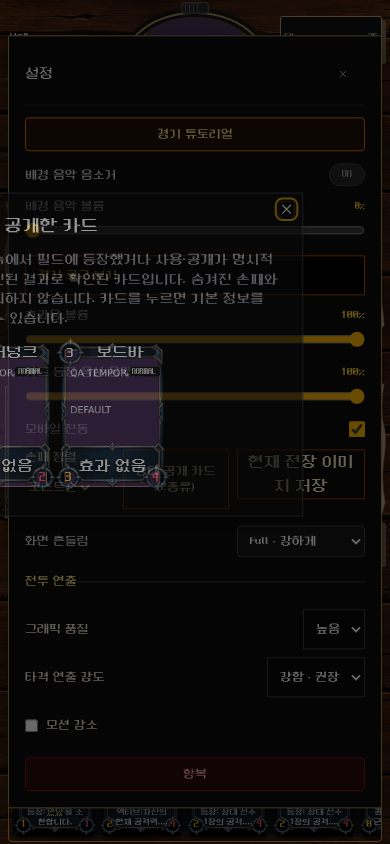
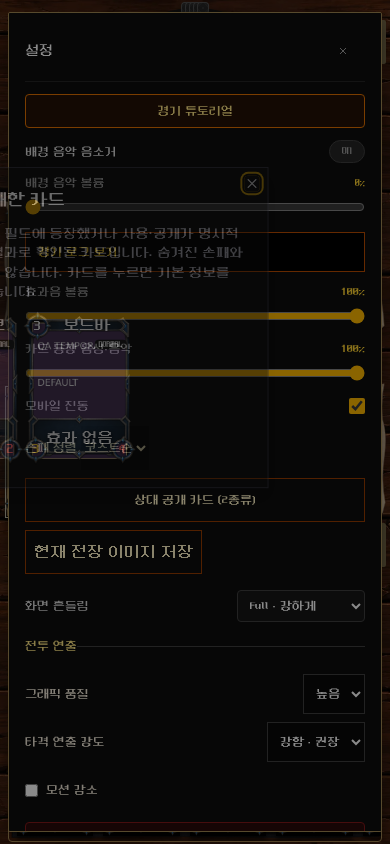
Fit battle utilities vertically within the mobile settings panel

diff --git a/artifacts/ko-game/src/components/game-state-preview.tsx b/artifacts/ko-game/src/components/game-state-preview.tsx
@@ -1526,7 +1526,7 @@ export function GameStatePreview({
                            try { window.localStorage.setItem('ko-match-haptics', event.target.checked ? 'on' : 'off'); } catch { /* optional */ }
                          }} />
                      </label>
-                     <div className="flex shrink-0 justify-between gap-2 text-amber-100"><label className="text-xs">손패 정렬 <select aria-label="손패 정렬" className="min-h-11 bg-neutral-950" value={handSort} onChange={e=>setHandSort(e.target.value)}><option value="DRAW">획득순</option><option value="COST">코스트순</option></select></label><PublicCards state={state} ids={publicCardIds}/><SaveBattleImage state={state}/></div><ScreenShakeSetting /><CombatSettings />
+                     <div data-testid="player-battle-tools" className="flex shrink-0 flex-col gap-2 text-amber-100"><label className="text-xs">손패 정렬 <select aria-label="손패 정렬" className="min-h-11 bg-neutral-950" value={handSort} onChange={e=>setHandSort(e.target.value)}><option value="DRAW">획득순</option><option value="COST">코스트순</option></select></label><PublicCards state={state} ids={publicCardIds}/><SaveBattleImage state={state}/></div><ScreenShakeSetting /><CombatSettings />
                      <button
                        type="button"
                        disabled={state.status === 'FINISHED'}
